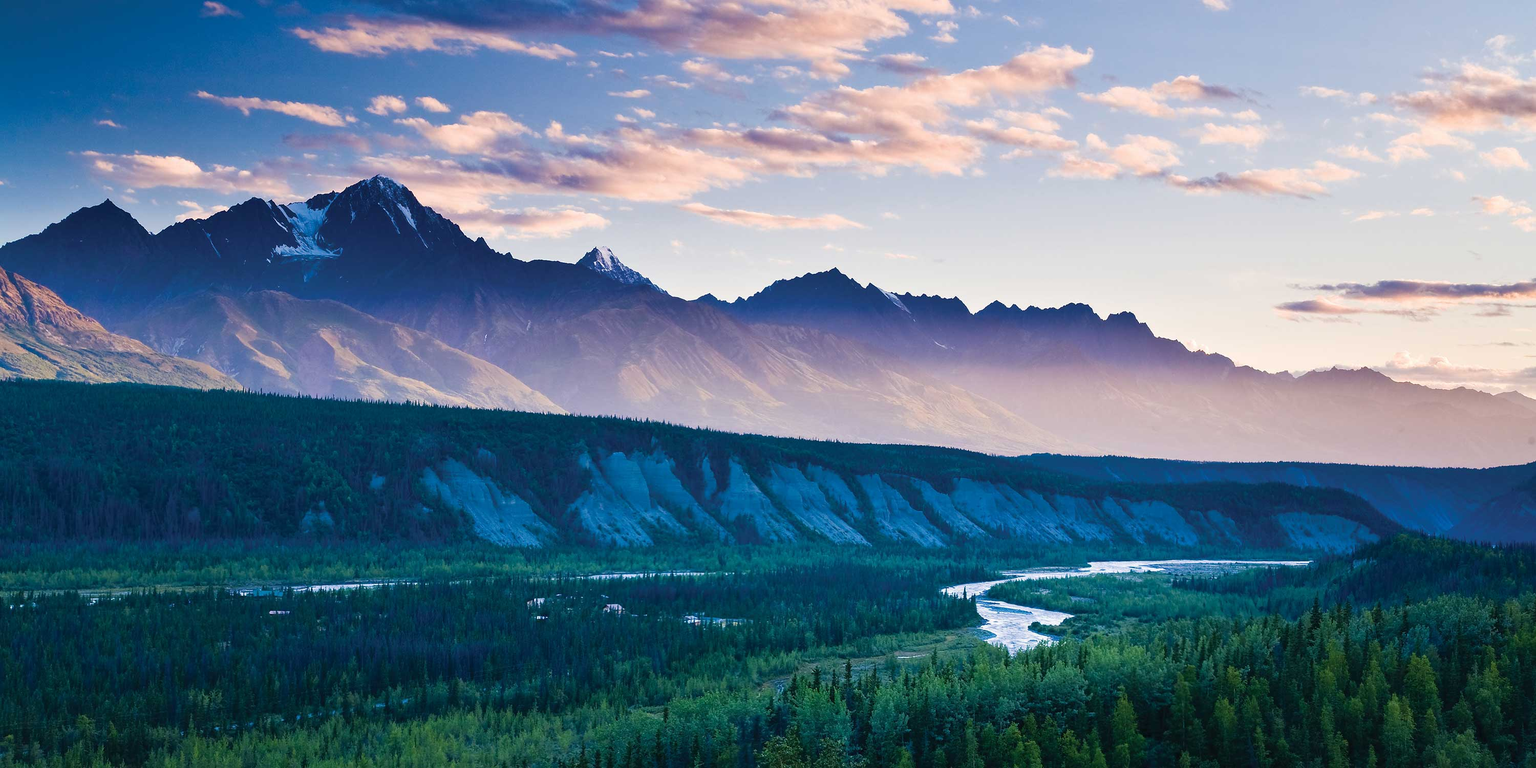
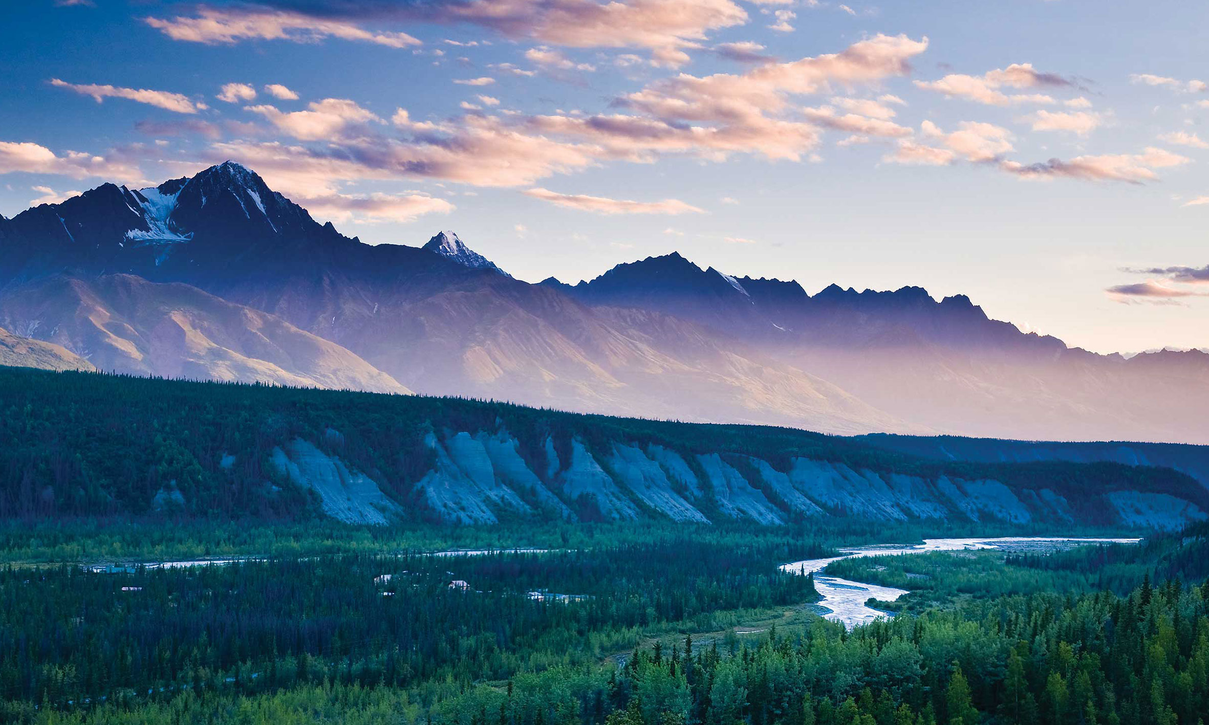
post images factored and some minor css changes

diff --git a/public/css/style.css b/public/css/style.css
@@ -642,10 +642,9 @@ textarea.input {
     background-image: linear-gradient(to top, rgba(33, 38, 49, 0.3) 0%, transparent 100%);
 }
 #post-header.page-header {
-    padding-top: 120px;
+    padding-top: 200px;
 }
 .page-header h1 {
-    text-transform: capitalize;
     margin-bottom: 0px;
 }
 #post-header.page-header h1 {
@@ -715,6 +714,12 @@ textarea.input {
 .post {
     margin-bottom: 40px;
 }
+
+.post p{
+    overflow: hidden;
+    max-height:220px;
+}
+
 .post .post-img {
     display: block;
     -webkit-transition: 0.2s opacity;
@@ -1348,7 +1353,6 @@ SUCCESS MESSAGES
 }
 
 .successModal-content p{
-    word-break: break-all;
     text-align: center;
     line-height: 25px;
     font-size: 15px;

diff --git a/templates/front/postView.php b/templates/front/postView.php
@@ -299,7 +299,7 @@ ob_start(); ?>
             $publishDate = $lastPosts[$i]->modPublishDate();
         ?>       
 							<div class="post post-widget">
-								<a class="post-img" href="index.php?action=post&id=<?=$id?>&page=1&sortBy=5"><img src="./public/img/widget-<?=$id?>.jpg" alt=""></a>
+								<a class="post-img" href="index.php?action=post&id=<?=$id?>&page=1&sortBy=5"><img src="./public/img/post-<?=$id?>.jpg" alt=""></a>
 								<div class="post-body">
 									<a href="index.php?action=post&id=<?=$id?>&page=1&sortBy=5"><em class="post-title"><?= htmlspecialchars($chapter) ?></em><br/><p>  <?= htmlspecialchars($lastPostTitle)?></p></a>
 									

diff --git a/templates/front/listPostsView.php b/templates/front/listPostsView.php
@@ -63,7 +63,7 @@
                     <!-- post -->
                     <div class="col-md-4">
                         <div class="post">
-                            <a class="post-img" href="index.php?action=post&id=<?=$id?>&page=1&sortBy=5"><img src="./public/img/post-preview-<?= $id?>.jpg" alt=""></a>
+                            <a class="post-img" href="index.php?action=post&id=<?=$id?>&page=1&sortBy=5"><img src="./public/img/post-<?= $id?>.jpg" alt=""></a>
                             <div class="post-body">
                                 <div class="post-meta">
                                     <span class="post-date">
